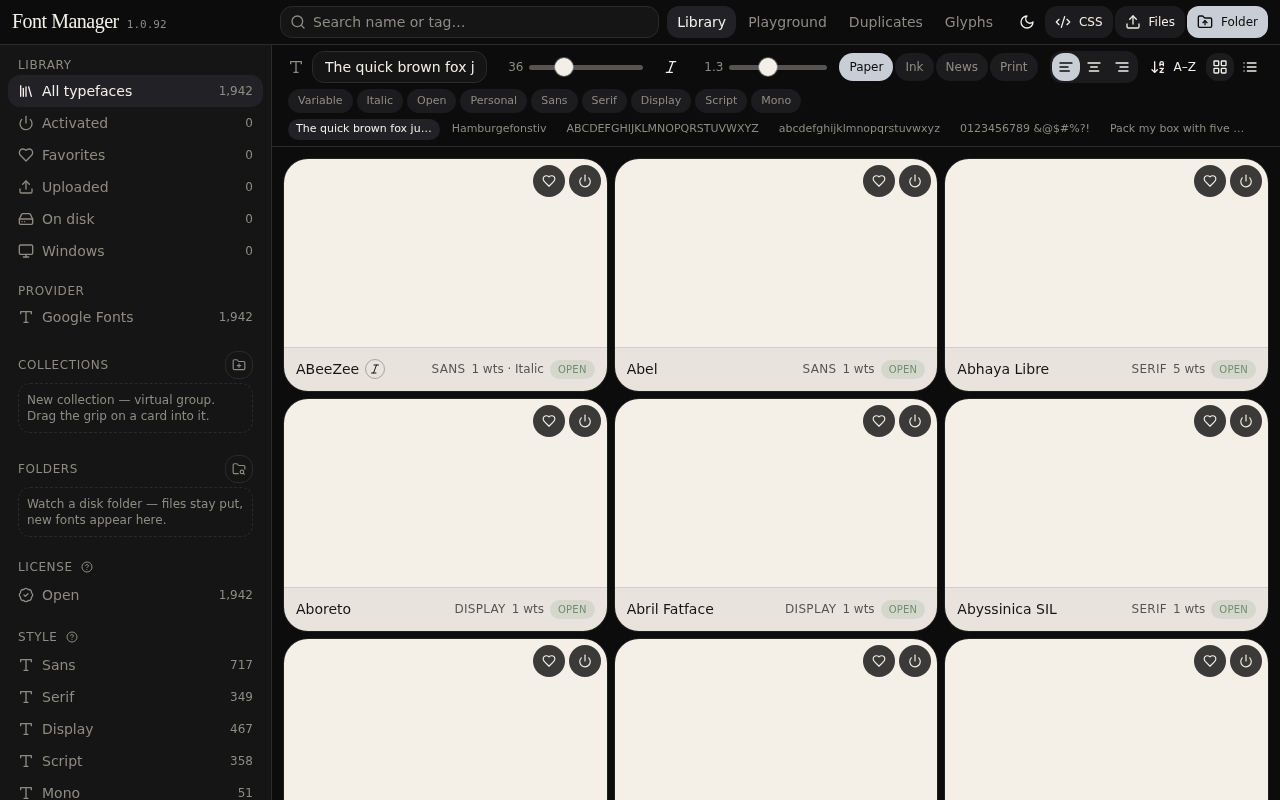
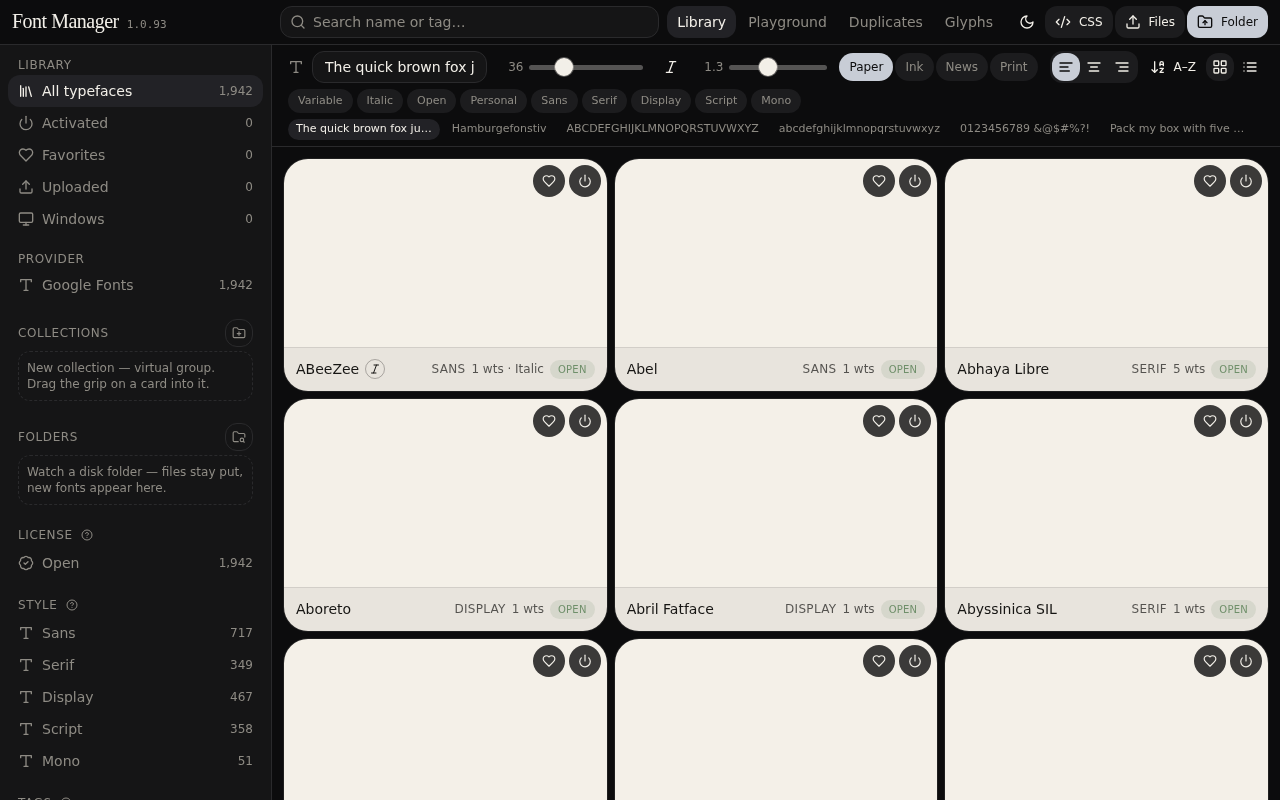
Font Manager 1.0.93 — drop On disk drawer
Windows already lists system fonts. Google downloads stay in Documents and still skip re-fetch on Activate.

diff --git a/src/components/font-studio/library-grid.tsx b/src/components/font-studio/library-grid.tsx
@@ -68,13 +68,12 @@ export function LibraryGrid() {
   const collections = useFontStore((s) =>
     s.scope.startsWith("collection:") ? s.collections : EMPTY_COLS,
   );
-  const diskFamilies = useFontStore((s) => (s.scope === "disk" ? s.diskFamilies : EMPTY_IDS));
   const systemFonts = useFontStore((s) => (s.scope === "system" ? s.systemFonts : EMPTY_FONTS));
   const { boxRef, box } = useScroller();
   const [uploadsOpen, setUploadsOpen] = useState(false);
   const list = preview.view === "list";
   const sortMode =
-    (scope === "disk" || scope === "system") && (preview.sort ?? "name-asc") === "popular" ? "name-asc" : (preview.sort ?? "name-asc");
+    scope === "system" && (preview.sort ?? "name-asc") === "popular" ? "name-asc" : (preview.sort ?? "name-asc");
 
   const fonts = useMemo(
     () =>
@@ -87,11 +86,10 @@ export function LibraryGrid() {
           activated,
           collections,
           customTags,
-          diskFamilies,
         ),
         sortMode,
       ),
-    [localFonts, googleFonts, systemFonts, scope, query, favorites, activated, collections, customTags, diskFamilies, sortMode],
+    [localFonts, googleFonts, systemFonts, scope, query, favorites, activated, collections, customTags, sortMode],
   );
 
   const inner = Math.max(280, box.width - 24);
@@ -151,16 +149,8 @@ export function LibraryGrid() {
       </div>
     ) : null;
 
-  const diskBar =
-    scope === "disk" ? (
-      <div className="border-b border-border px-3 py-2 md:px-4">
-        <p className="text-sm text-muted-foreground">
-          {diskFamilies.length
-            ? `${diskFamilies.length.toLocaleString()} Google ${diskFamilies.length === 1 ? "family" : "families"} in Documents / Font Manager. These are downloads, not Windows system fonts. Deactivate unloads them; Delete files in the inspector removes the folder.`
-            : "Nothing downloaded yet. Activate a Google family to save TTF files here."}
-        </p>
-      </div>
-    ) : scope === "system" ? (
+  const systemBar =
+    scope === "system" ? (
       <div className="border-b border-border px-3 py-2 md:px-4">
         <p className="text-sm text-muted-foreground">
           Fonts already in Windows (Arial, Calibri, Segoe, …). View and favorite them here. Font Manager will not uninstall or deactivate them.
@@ -172,7 +162,7 @@ export function LibraryGrid() {
     return (
       <div ref={boxRef} className="flex flex-1 flex-col">
         {uploadedBar}
-        {diskBar}
+        {systemBar}
         <div className="flex flex-1 flex-col items-center justify-center px-6 py-20 text-center">
           <p className="font-heading text-3xl">Nothing in this drawer</p>
           <p className="mt-2 max-w-sm text-sm text-muted-foreground">
@@ -180,8 +170,6 @@ export function LibraryGrid() {
               ? "Drop a folder of TTF, OTF, or WOFF files here, or use Files / Folder in the header."
               : scope === "system"
                 ? "Open the desktop app to list Arial, Calibri, and the rest of C:\\Windows\\Fonts. This website cannot read that folder."
-              : scope === "disk"
-                ? "Activate a Google family to download TTF files into Documents. This is not the Windows fonts folder."
               : scopeNeedsActivated(scope)
                 ? "This filter only lists activated typefaces. Open All typefaces, or click Activated."
                 : "Try another filter, or use Folder to add a whole directory of TTF, OTF, or WOFF files."}
@@ -195,7 +183,7 @@ export function LibraryGrid() {
   return (
     <div ref={boxRef} className="flex flex-col">
       {uploadedBar}
-      {diskBar}
+      {systemBar}
       <div className="relative w-full" style={{ height: totalH }}>
         <div
           className={list ? "flex flex-col gap-2 p-2.5 md:p-3" : "grid gap-2 p-2.5 md:p-3"}

diff --git a/src/components/font-studio/sidebar.tsx b/src/components/font-studio/sidebar.tsx
@@ -10,7 +10,6 @@ import {
   Type,
   Upload,
   User,
-  HardDrive,
   Monitor,
 } from "lucide-react";
 import { useMemo, type ReactNode } from "react";
@@ -105,7 +104,6 @@ export function Sidebar({
   const customTags = useFontStore((s) => s.customTags);
   const localFonts = useFontStore((s) => s.localFonts);
   const googleFonts = useFontStore((s) => s.googleFonts);
-  const diskCount = useFontStore((s) => s.diskFamilies.length);
   const systemCount = useFontStore((s) => s.systemFonts.length);
   const counts = useMemo(() => {
     const list = allFonts(localFonts, googleFonts);
@@ -170,17 +168,6 @@ export function Sidebar({
               label="Uploaded"
               count={localFonts.length}
               mainProps={{ "aria-label": "Uploaded" }}
-            />
-            <SidebarRow
-              active={scope === "disk"}
-              onClick={() => go("disk")}
-              icon={<HardDrive className="size-4 shrink-0" />}
-              label="On disk"
-              count={diskCount}
-              mainProps={{
-                "aria-label": "On disk",
-                title: "Google families already downloaded into Documents / Font Manager. Not Windows system fonts (Arial, Calibri).",
-              }}
             />
             <SidebarRow
               active={scope === "system"}

diff --git a/src/lib/fonts/store.ts b/src/lib/fonts/store.ts
@@ -1016,7 +1016,6 @@ export function filterLibrary(
   activated: string[],
   collections: Collection[],
   customTags: Record<string, string[]>,
-  diskFamilies: string[] = [],
 ): FontRecord[] {
   let list = fonts;
   if (scope === "activated") {
@@ -1027,10 +1026,7 @@ export function filterLibrary(
     list = list.filter((f) => fav.has(f.id));
   } else if (scope === "uploaded") list = list.filter((f) => f.source === "local");
   else if (scope === "google") list = list.filter((f) => f.source === "google");
-  else if (scope === "disk") {
-    const onDisk = new Set(diskFamilies.map((n) => n.trim().toLowerCase()));
-    list = list.filter((f) => f.source === "google" && onDisk.has(f.family.toLowerCase()));
-  } else if (scope === "system") {
+  else if (scope === "system") {
     list = list.filter((f) => f.source === "system");
   }
   else if (scope.startsWith("collection:")) {

diff --git a/src/lib/fonts/hydrate.ts b/src/lib/fonts/hydrate.ts
@@ -108,8 +108,9 @@ export function useHydrateFonts() {
       const { localFonts, setHydrated, googleFonts, collections, scope } = useFontStore.getState();
       if (
         typeof scope === "string" &&
-        scope.startsWith("collection:") &&
-        !collections.some((c) => c.id === scope.slice("collection:".length))
+        ((scope as string) === "disk" ||
+          (scope.startsWith("collection:") &&
+            !collections.some((c) => c.id === scope.slice("collection:".length))))
       ) {
         useFontStore.getState().setScope("all");
       }

diff --git a/src/lib/fonts/types.ts b/src/lib/fonts/types.ts
@@ -11,7 +11,6 @@ export type LibraryScope =
   | "favorites"
   | "uploaded"
   | "google"
-  | "disk"
   | "system"
   | `collection:${string}`
   | `category:${FontCategory}`

diff --git a/src/version.ts b/src/version.ts
@@ -1,3 +1,3 @@
 export const APP_NAME = "Font Manager";
-export const APP_VERSION = "1.0.92";
+export const APP_VERSION = "1.0.93";
 export const APP_TITLE = APP_NAME;

diff --git a/README.md b/README.md
@@ -1,12 +1,12 @@
-# Font Manager **1.0.92**
+# Font Manager **1.0.93**
 
 **TL;DR.** FontBase-style desktop typeface library. Browse ~1,968 Google Font families, upload TTF/OTF/WOFF/WOFF2/TTC, **Activate** so Word, Adobe, and Figma can use them while this window is open. Files live in `Documents / Font Manager`. This website is the same UI — a dress rehearsal before `deploy.bat`.
 
-Version **1.0.92** sits next to the logo, not in the window title.
+Version **1.0.93** sits next to the logo, not in the window title.
 
-**1.0.92** — **Windows** drawer lists `C:\\Windows\\Fonts` (Arial, Calibri, Segoe) as read-only. COLRv1 / emoji specimens use `font-palette` and a color TTF when Google only serves WOFF2. Watched folders re-scan every 2.5s and pick up replaced files. Activate is still sequential and off the UI thread.
+**1.0.93** — Dropped the **On disk** drawer. **Windows** is the OS fonts list. Google downloads still live in Documents and skip re-fetch on Activate.
 
-**1.0.91** — sequential Google activate, On disk in Library. **1.0.90** — scan before download. **1.0.86** — Fontsource TTF for WOFF2-only families.
+**1.0.92** — Windows drawer, COLRv1/emoji preview, watched-folder sync. **1.0.91** — sequential Google activate. **1.0.90** — scan before download. **1.0.86** — Fontsource TTF for WOFF2-only families.
 
 **1.0.90** — Scan before download flag. **1.0.89** — session restore + slider persist. **1.0.88** — card/inspector axes share a store. **1.0.86** — Fontsource TTF for WOFF2-only families. **1.0.85** — Deactivate keeps files.
 
@@ -151,11 +151,11 @@ Deactivate unloads and **keeps files**. Activate again does **not** download. De
 
 Deactivate unloads and **keeps files**. Activate again is register-only. Preview stays CSS in this window.
 
-**On disk** (Library) is that Documents cache — Google families you already downloaded. It is **not** `C:\Windows\Fonts`. You can view them, deactivate them, or Delete files in the inspector. Arial and Calibri are not listed.
+Google downloads sit in `Documents / Font Manager`. They are not listed as a separate drawer — **Windows** is `C:\Windows\Fonts` (Arial, Calibri). Activate still scans Documents first.
 
 ---
 
-## Next version (not in 1.0.92)
+## Next version (not in 1.0.93)
 
 - Signed installer + auto-update (SmartScreen / Store) — needs a code-signing cert; not a code change we can fake.
 - Native WOFF2 → TTF in Rust — new crate / MSRV; Fontsource TTF already covers install.
@@ -234,11 +234,11 @@ Opening the inspector reads GSUB/GPOS from the TTF. Switches set `font-variant-l
 | Symptom | What to do |
 | --- | --- |
 | First Activate is slow | That family is downloading. Next launch registers the file on disk — no fetch. |
-| `tauri.conf.json` parse error | Version must be `"1.0.92",` — **one** comma. |
+| `tauri.conf.json` parse error | Version must be `"1.0.93",` — **one** comma. |
 | Word doesn’t list the face yet | Wait a second; open the font menu again. |
 | OT toggles do nothing | Use the demo line, not the pangram. Confirm the file actually has that tag. |
 | Display face clipped | Library cards shrink-to-fit (min 13px). Inspector alphabet wraps with `overflow-wrap: anywhere`. |
-| Can’t install — **Unable to uninstall** / **Error launching installer** | Double-click **`fix-install.bat`**. Rebuild with **1.0.92** (`deploy.bat`). Right-click setup → Properties → **Unblock** if Windows marked the file. |
+| Can’t install — **Unable to uninstall** / **Error launching installer** | Double-click **`fix-install.bat`**. Rebuild with **1.0.93** (`deploy.bat`). Right-click setup → Properties → **Unblock** if Windows marked the file. |
 | Build window closed after `index.html` | That was only the UI pack. Re-run `deploy.bat` and wait for Explorer. |
 | MSI missing, only setup.exe | Install [WiX Toolset v3](https://wixtoolset.org), then `deploy.bat` again. NSIS is enough to install. |
 
